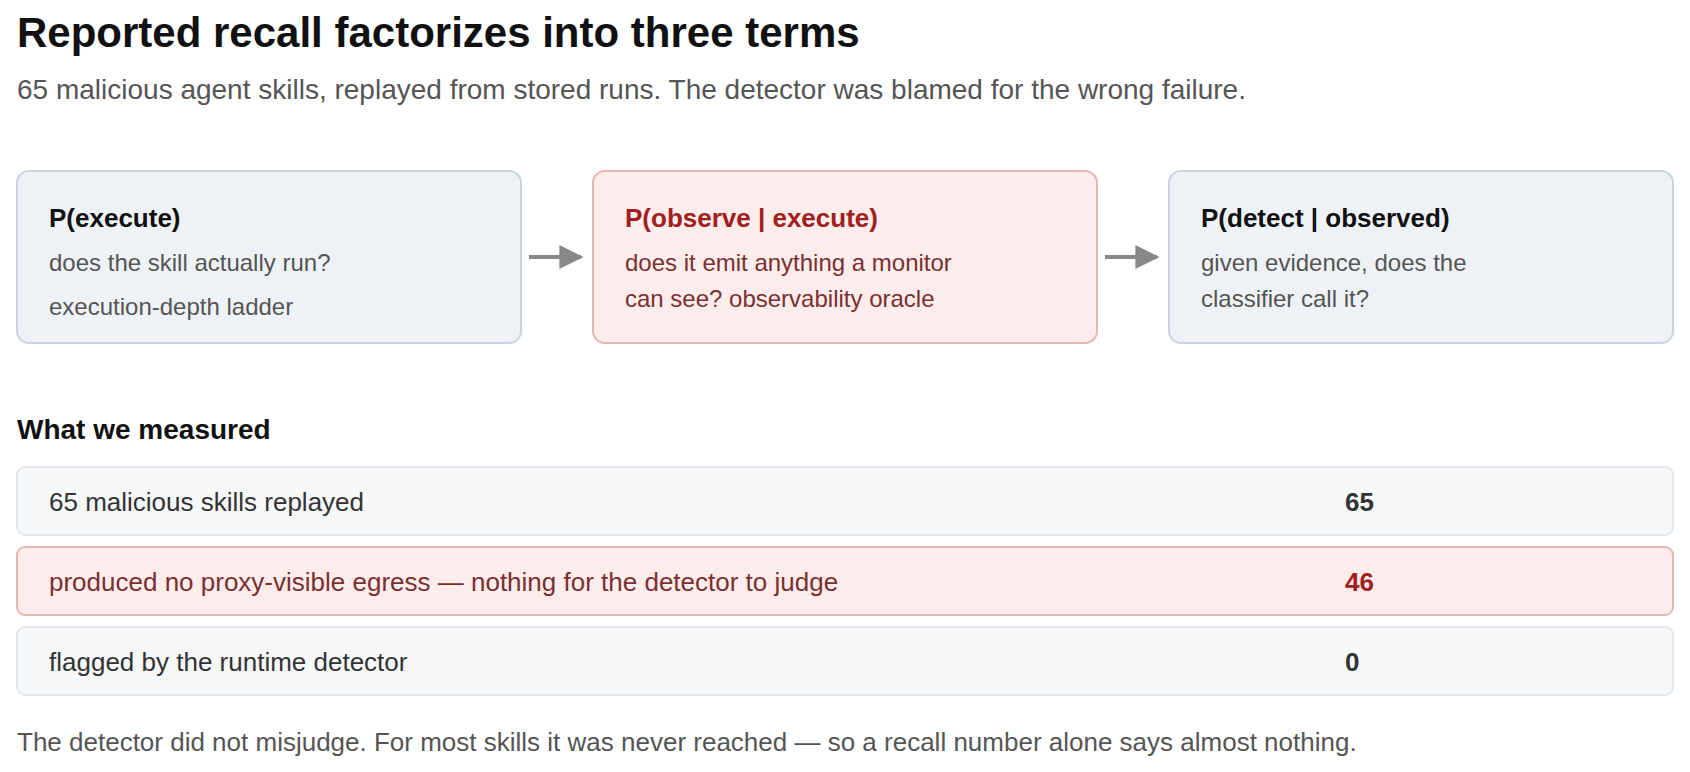
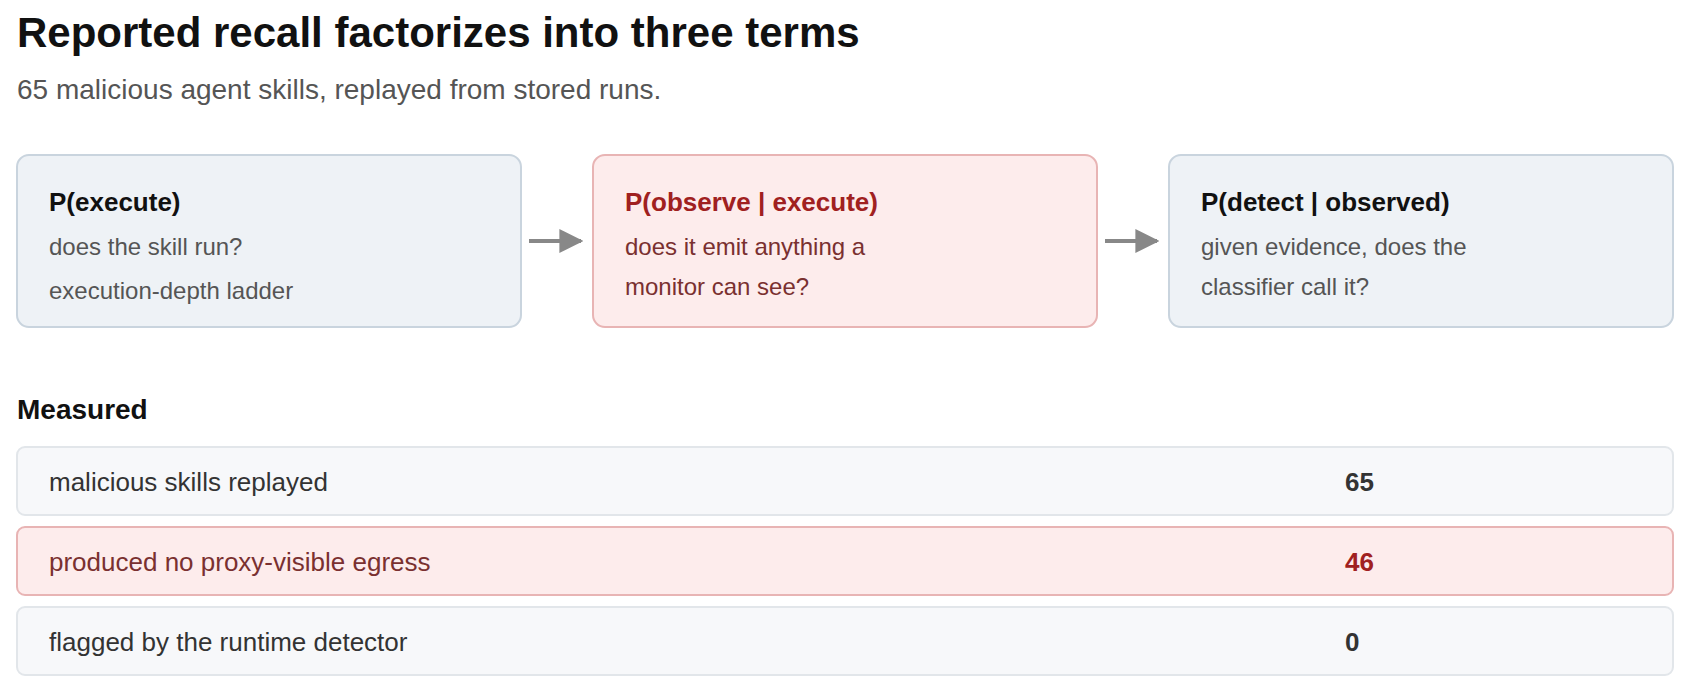
plain down the copy; neutral figure captions

diff --git a/README.md b/README.md
@@ -1,12 +1,10 @@
 ### Hi — I'm Cory (Kuiyi) Gao.
 
-I work on **AI agent safety**: I build the benchmarks that show how agents fail once they leave the lab, and the runtime defenses that catch those failures in production.
-
-The question I keep coming back to — **when an agent does something it shouldn't, does anything actually see it?** On stored runs of 65 malicious agent skills, our runtime detector flagged *none* of them. Not because it judged wrongly: 46 of the 65 never produced traffic a monitor could observe. Reported recall was measuring the wrong thing. That study is what I'm writing up now.
+I work on **trustworthy AI** — how systems behave once they leave the lab and meet real interfaces, real tools and real people. Mostly: safety benchmarks, jailbreak attacks and defenses, agent robustness under interface noise, and runtime evidence for what an agent actually did.
 
 <img src="assets/fig-recall-factorization.png" width="100%" alt="Reported recall factorizes into P(execute), P(observe given execute) and P(detect given observed); of 65 malicious skills, 46 produced no observable egress and 0 were flagged"/>
 
-<sub>Of 65 malicious agent skills, 46 never produced traffic a monitor could see — so reported recall factors as P(execute)·P(observe&nbsp;|&nbsp;execute)·P(detect&nbsp;|&nbsp;observed).</sub>
+<sub>On stored runs of 65 malicious agent skills, 46 produced no proxy-visible traffic, so the detector was never reached.</sub>
 
 Undergraduate at UNC-Chapel Hill · B.A. Computer Science, 2027 · applying for Fall 2027 PhD programs
 [Homepage](https://kuiyigao.github.io) · [Google Scholar](https://scholar.google.com/citations?user=Yobg_TQAAAAJ) · [CV](https://kuiyigao.github.io/Kuiyi_Gao_CV.pdf) · kuiyigao@unc.edu
@@ -17,7 +15,7 @@ Undergraduate at UNC-Chapel Hill · B.A. Computer Science, 2027 · applying for 
 
 | | |
 |---|---|
-| **Sep 2026** | Started at UNC-Chapel Hill as a junior transfer |
+| **Sep 2026** | Applying to PhD programs for Fall 2027 |
 | **Aug 2026** | Submitted our GUI-agent robustness benchmark (co-first author) |
 | **Jul 2026** | Finished the Agent Skill Firewall at MBZUAI UGRIP; writing up the measurement study behind it |
 | **Jul 2025** | Two papers at **ACL 2025** — one main conference, one Findings |
@@ -26,26 +24,22 @@ Undergraduate at UNC-Chapel Hill · B.A. Computer Science, 2027 · applying for 
 
 **Can't See the Forest for the Trees: Benchmarking Multimodal Safety Awareness for Multimodal LLMs** · `ACL 2025 Main` <br/>
 [anthology](https://aclanthology.org/2025.acl-long.832/) · [arXiv](https://arxiv.org/abs/2502.11184) <br/>
-Multimodal models miss unsafe intent when it is split across image and text — and refuse harmless requests for the same reason. We built the benchmark that separates the two failures.
+Multimodal models miss unsafe intent when it is split across image and text, and refuse harmless requests for the same reason. The benchmark scores both failures separately.
 
 **Chain-of-Jailbreak Attack for Image Generation Models via Step by Step Editing** · `Findings of ACL 2025` <br/>
 [anthology](https://aclanthology.org/2025.findings-acl.571/) · [arXiv](https://arxiv.org/abs/2410.03869) <br/>
-Never ask for the unsafe image at once. Every edit step is individually benign, so no single step is the one a filter can refuse. I designed the attack, ran the experiments, and wrote the paper.
+The attack decomposes one harmful request into a chain of individually benign edits, so no single step is one a filter would refuse. I designed the attack methodology, ran the experiments, and wrote the paper.
 
 **GUI-agent robustness under interface noise** · `under review, 2026` · co-first author <br/>
-Noise does not simply lower an agent's success rate — it redirects the trajectory and raises the rate of unsafe actions. Success rate alone hides that.
+Interface noise does not only lower success rate; it also changes which action an agent takes and raises the rate of unsafe actions.
 
 ### Things I built
 
-Each repository carries its own `docs/`: the question it answers, the claim, the evidence, and one command that reproduces it.
-
-| | |
-|---|---|
 <table>
 <tr>
 <td width="42%"><img src="assets/fig-skill-firewall.png" width="100%" alt="Agent Skill Firewall pipeline: skill bundle, static pre-scan, canary-seeded proxy, intent vs action vs result, PASS DEFER BLOCK"/></td>
 <td width="58%"><b><a href="https://github.com/KuiyiGao/OpenClaw-Skill-Hack">OpenClaw-Skill-Hack</a> — Agent Skill Firewall</b><br/>
-Scans a skill statically, then verifies intent against action against result through a canary-seeded proxy. Every PASS / DEFER / BLOCK keeps the evidence it was made from, so a block can be re-derived instead of taken on faith.</td>
+Scans a skill statically, then verifies intent against action against result through a canary-seeded proxy. Each PASS / DEFER / BLOCK is recorded with the evidence it was derived from.</td>
 </tr>
 </table>
 
@@ -53,9 +47,3 @@ Scans a skill statically, then verifies intent against action against result thr
 |---|---|
 | **[Distorted-OCR-Compression](https://github.com/KuiyiGao/Distorted-OCR-Compression)** | **MemSlot** — 32 learnable memory slots learn which spans of a contract matter *before* anyone asks a question; those spans are then compressed through an OCR model. |
 | **[QuickMotionDetection](https://github.com/KuiyiGao/QuickMotionDetection)** | **Movability segmentation** — COCO-Stuff relabelled into four levels of "can this move?", as a perception prior for embodied safety. mIoU 0.638 @ 58 FPS. |
-
-### How I try to work
-
-- **Report the measurement that complicates the story.** The 0-out-of-65 above is the least flattering number in my own system, and it is the one worth publishing.
-- **Every number should be checkable.** If it is here, there is a paper, a repo, or a script behind it — and if it came from a corpus only I have, I say so.
-- **Build it before writing about it.** Every paper above started as something that ran.
